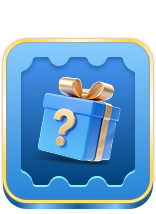
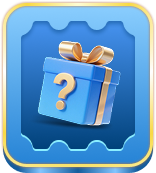
style: 票券弹窗 PC 走查样式与 blind-box 图标优化

diff --git a/src/views/activity/ticket/layout/popups/result/TicketResultHeroPopup.vue b/src/views/activity/ticket/layout/popups/result/TicketResultHeroPopup.vue
@@ -11,6 +11,7 @@
     <div class="flex flex-col items-center">
       <h2
         class="result-hero-title w-full whitespace-nowrap text-center text-[42px] font-[700] leading-[42px]"
+        :class="{ 'result-hero-title--pc': !isMobile }"
         :style="{ backgroundImage: resultHeroTitleGradient }"
       >
         {{ resolvedTitle }}
@@ -26,7 +27,8 @@
 
       <button
         type="button"
-        class="flex h-[44px] w-full max-w-[200px] items-center justify-center rounded-[10px] bg-theme-primary text-[15px] font-[700] text-text-4"
+        class="flex items-center justify-center rounded-[10px] bg-theme-primary text-[15px] font-[700] text-text-4"
+        :class="isMobile ? 'h-[44px] w-full max-w-[200px]' : 'h-[48px] w-[300px]'"
         @click="close"
       >
         {{ resolvedButtonText }}
@@ -36,6 +38,7 @@
 </template>
 
 <script setup lang="ts">
+import { useIsMobile } from '@/composables/useMediaQuery'
 import { TICKET_DIALOG_Z } from '@/views/activity/ticket/shared/constants'
 import { getTicketModalTheme } from '@/views/activity/ticket/shared/design-tokens'
 import { globalTicketToastState } from '@/views/activity/ticket/shell/ticketToast'
@@ -48,6 +51,7 @@ import { computed } from 'vue'
 import { useI18n } from 'vue-i18n'
 
 const { t } = useI18n()
+const isMobile = useIsMobile()
 const { visible, result, close } = useTicketResultDialog('hero')
 const { resolvedTitle, resolvedHighlight, resolvedHeroImage, resolvedSubtext, resolvedButtonText } =
   useTicketResultHeroCopy(result, t)
@@ -82,5 +86,11 @@ const resultHeroTitleGradient = computed(() => {
   background-clip: text;
   -webkit-background-clip: text;
   -webkit-text-fill-color: transparent;
+}
+
+.result-hero-title--pc {
+  overflow: visible;
+  padding-block: 2px;
+  line-height: 50px;
 }
 </style>

diff --git a/src/views/activity/components/receive-pop.vue b/src/views/activity/components/receive-pop.vue
@@ -23,20 +23,22 @@
             <h2 class="receive-pop__title text-center text-[32px] font-[700] sm:text-[42px]">
               {{ t('luckySpinPage.result.congratulations') }}
             </h2>
-            <p class="text-center text-[16px] leading-[18px] text-common-100 sm:text-[21px]">
+            <p
+              class="text-center text-[16px] font-[700] leading-[18px] text-common-100 sm:text-[21px]"
+            >
               {{ t('luckySpinPage.result.receivedVouchers', { count: resolvedCount }) }}
             </p>
 
             <div
-              class="relative mt-12 w-full rounded-[24px] bg-[linear-gradient(123deg,#18884E_0%,#062917_100%)] px-4 pb-4 pt-8"
+              class="relative mt-12 w-full rounded-[24px] bg-[linear-gradient(123deg,#18884E_0%,#062917_100%)] px-4 pb-4 pt-8 sm:pt-[40px]"
             >
               <div
-                class="absolute left-1/2 top-[-43px] flex -translate-x-1/2 items-center justify-center"
+                class="absolute left-1/2 flex -translate-x-1/2 items-center justify-center top-[-43px] sm:top-[-44px] sm:h-[68px] sm:w-[368px]"
               >
                 <img
                   :src="titleBackImg"
                   alt=""
-                  class="h-[64px] w-auto max-w-[280px] object-contain"
+                  class="object-contain h-[64px] w-auto max-w-[280px] sm:h-full sm:w-full sm:max-w-none"
                 />
               </div>
 

diff --git a/src/views/activity/ticket/layout/popups/result/TicketResultCardsPopup.vue b/src/views/activity/ticket/layout/popups/result/TicketResultCardsPopup.vue
@@ -9,19 +9,24 @@
     @close="close"
   >
     <div class="flex flex-col items-center">
-      <h2 class="text-[20px] font-[700] text-[#F7D060]">{{ resolvedTitle }}</h2>
+      <h2 class="font-[700] text-[#F7D060]" :class="isMobile ? 'text-[20px]' : 'text-[21px]'">
+        {{ resolvedTitle }}
+      </h2>
       <p class="mt-1 text-center text-[13px] font-[700] text-common-80">{{ resolvedSubtext }}</p>
 
       <div
-        class="relative mt-6 w-full rounded-[16px] bg-[linear-gradient(123deg,#18884E_0%,#062917_100%)] px-6 pb-4 pt-8"
+        class="relative mt-6 w-full rounded-[16px] bg-[linear-gradient(123deg,#18884E_0%,#062917_100%)] px-6 pb-4"
+        :class="isMobile ? 'pt-8' : 'pt-[40px]'"
       >
         <div
-          class="absolute left-1/2 top-[-28px] flex -translate-x-1/2 items-center justify-center"
+          class="absolute left-1/2 flex -translate-x-1/2 items-center justify-center"
+          :class="isMobile ? 'top-[-28px]' : 'top-[-44px] h-[68px] w-[368px]'"
         >
           <img
             :src="LUCKY_SPIN_ASSETS.modals.ribbonGift"
             alt=""
-            class="h-[56px] w-auto object-contain"
+            class="object-contain"
+            :class="isMobile ? 'h-[56px] w-auto' : 'h-full w-full'"
           />
         </div>
         <div

diff --git a/src/views/activity/ticket/layout/popups/result/TicketVoucherCard.vue b/src/views/activity/ticket/layout/popups/result/TicketVoucherCard.vue
@@ -3,8 +3,11 @@
     class="flex h-[76.67px] items-center gap-3 rounded-[13px] px-3"
     :style="{ background: resolvedBg }"
   >
-    <div class="flex h-[56px] w-[50px] shrink-0 items-center justify-center">
-      <img :src="resolvedIcon" alt="" class="h-full w-full object-contain" />
+    <div
+      class="flex shrink-0 items-center justify-center"
+      :class="isMobile ? 'h-[56px] w-[50px]' : 'h-[72px] w-[64px]'"
+    >
+      <img :src="resolvedIcon" alt="" class="max-h-full max-w-full object-contain" />
     </div>
     <div class="min-w-0 flex-1 border-l border-dashed border-black/10 pl-3">
       <p class="truncate text-[13px] font-[700] text-[#1A1A1A]">{{ data.title }}</p>
@@ -19,6 +22,7 @@
 </template>
 
 <script setup lang="ts">
+import { useIsMobile } from '@/composables/useMediaQuery'
 import type { TicketVoucherCardData } from '@/views/activity/ticket/shared/types'
 import {
   getGameIcon,
@@ -34,6 +38,7 @@ interface Props {
 
 const props = defineProps<Props>()
 const { t } = useI18n()
+const isMobile = useIsMobile()
 
 const resolvedBg = computed(() => props.data.bgColor ?? getVoucherCardBg(props.data.type))
 

diff --git a/src/views/activity/ticket/layout/popups/shared/TicketDialogOverlay.vue b/src/views/activity/ticket/layout/popups/shared/TicketDialogOverlay.vue
@@ -5,7 +5,7 @@
         <div
           v-show="visible"
           class="fixed inset-0"
-          :class="layout === 'result' ? 'bg-black/50 backdrop-blur-sm' : 'bg-mask-60-1'"
+          :class="layout === 'result' ? 'bg-black/30 backdrop-blur-[8px]' : 'bg-mask-60-1'"
           :style="{ zIndex: maskZIndex }"
           @click.self="emit('close')"
         />

diff --git a/src/views/activity/ticket/shared/layout-tokens/ticketPcLayout.ts b/src/views/activity/ticket/shared/layout-tokens/ticketPcLayout.ts
@@ -64,9 +64,13 @@ export const TICKET_PC_LAYOUT = {
 
   header: {
     ...TICKET_LAYOUT_HEADER_COMMON,
+    titleFontSize: 28,
+    titleLineHeight: 34,
     subtitleMarginTop: 8,
     subtitleToCountdownGap: 16,
     countdownDigitsToLabelGap: 12,
+    countdownBoxSize: 40,
+    countdownDigitFontSize: 24,
     countdownBoxBg: 'transparent'
   },
 
